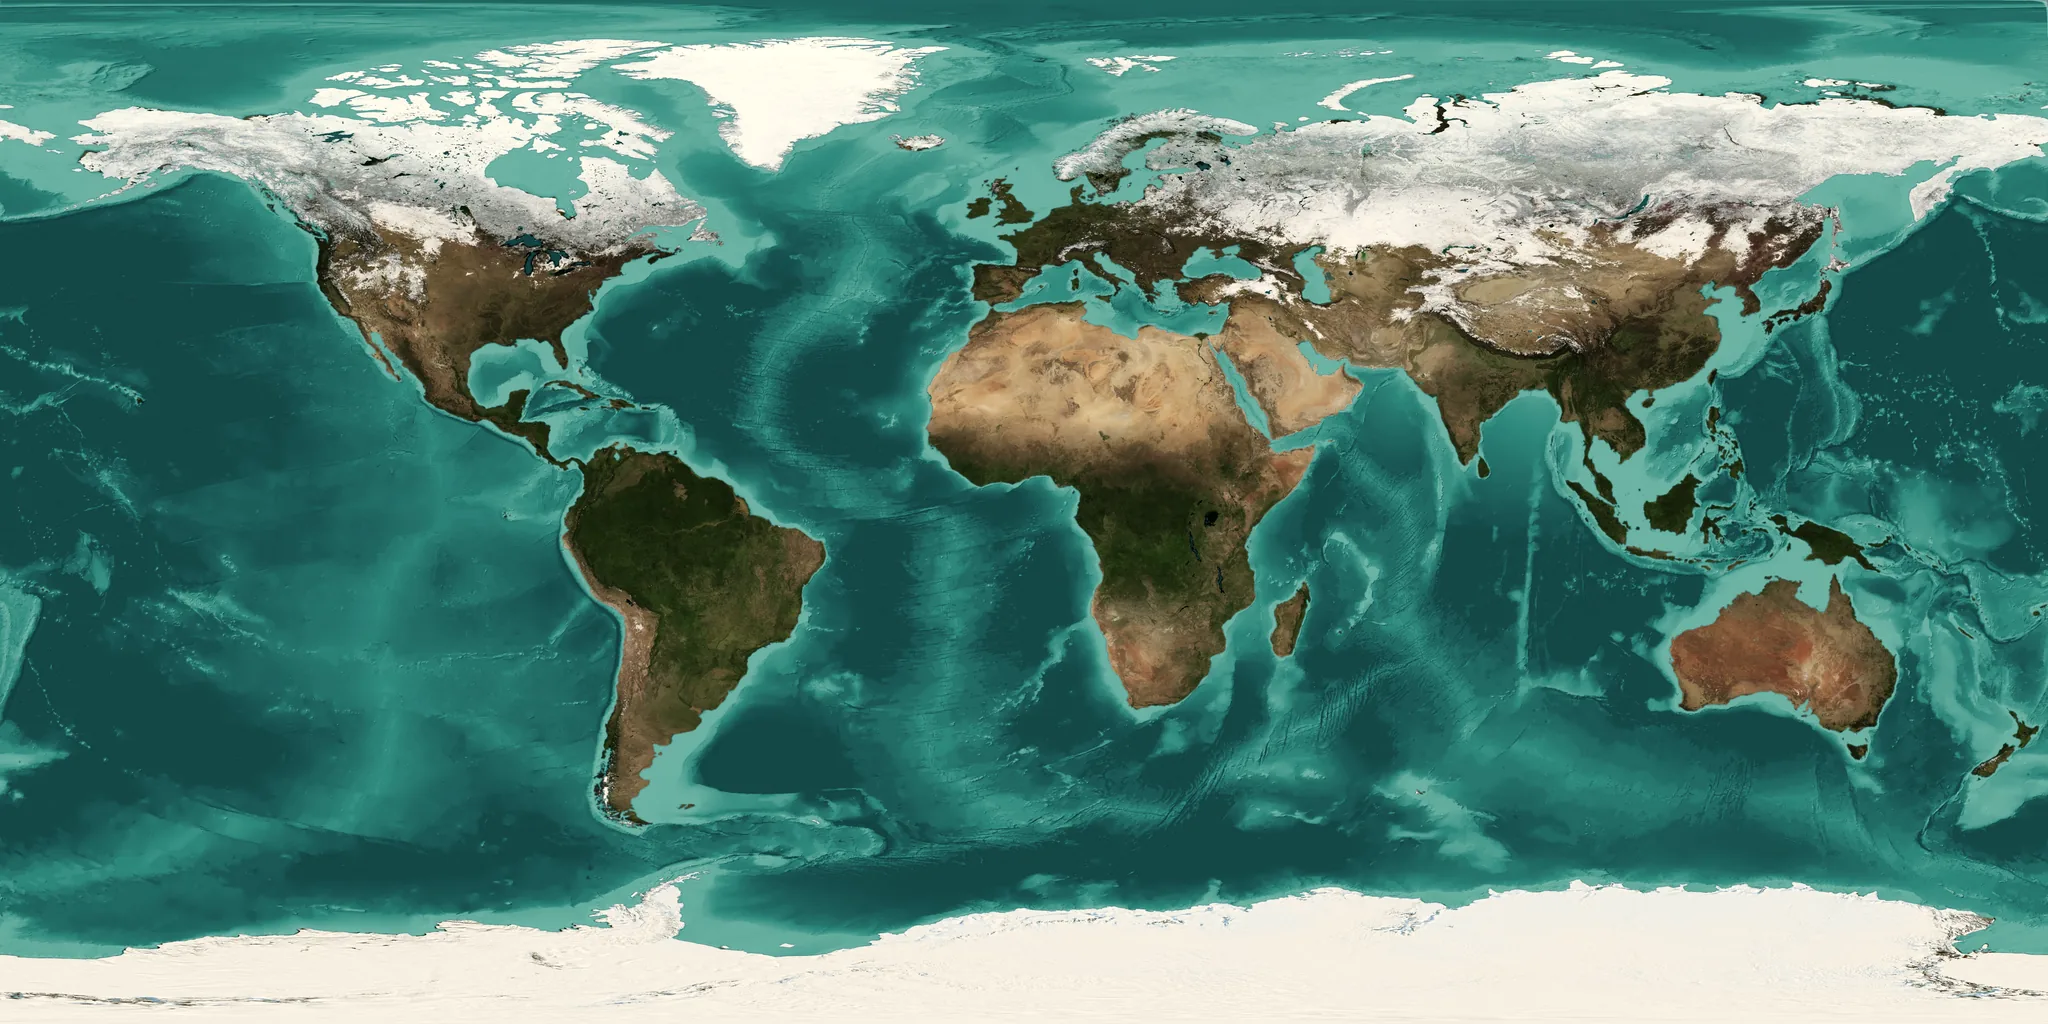
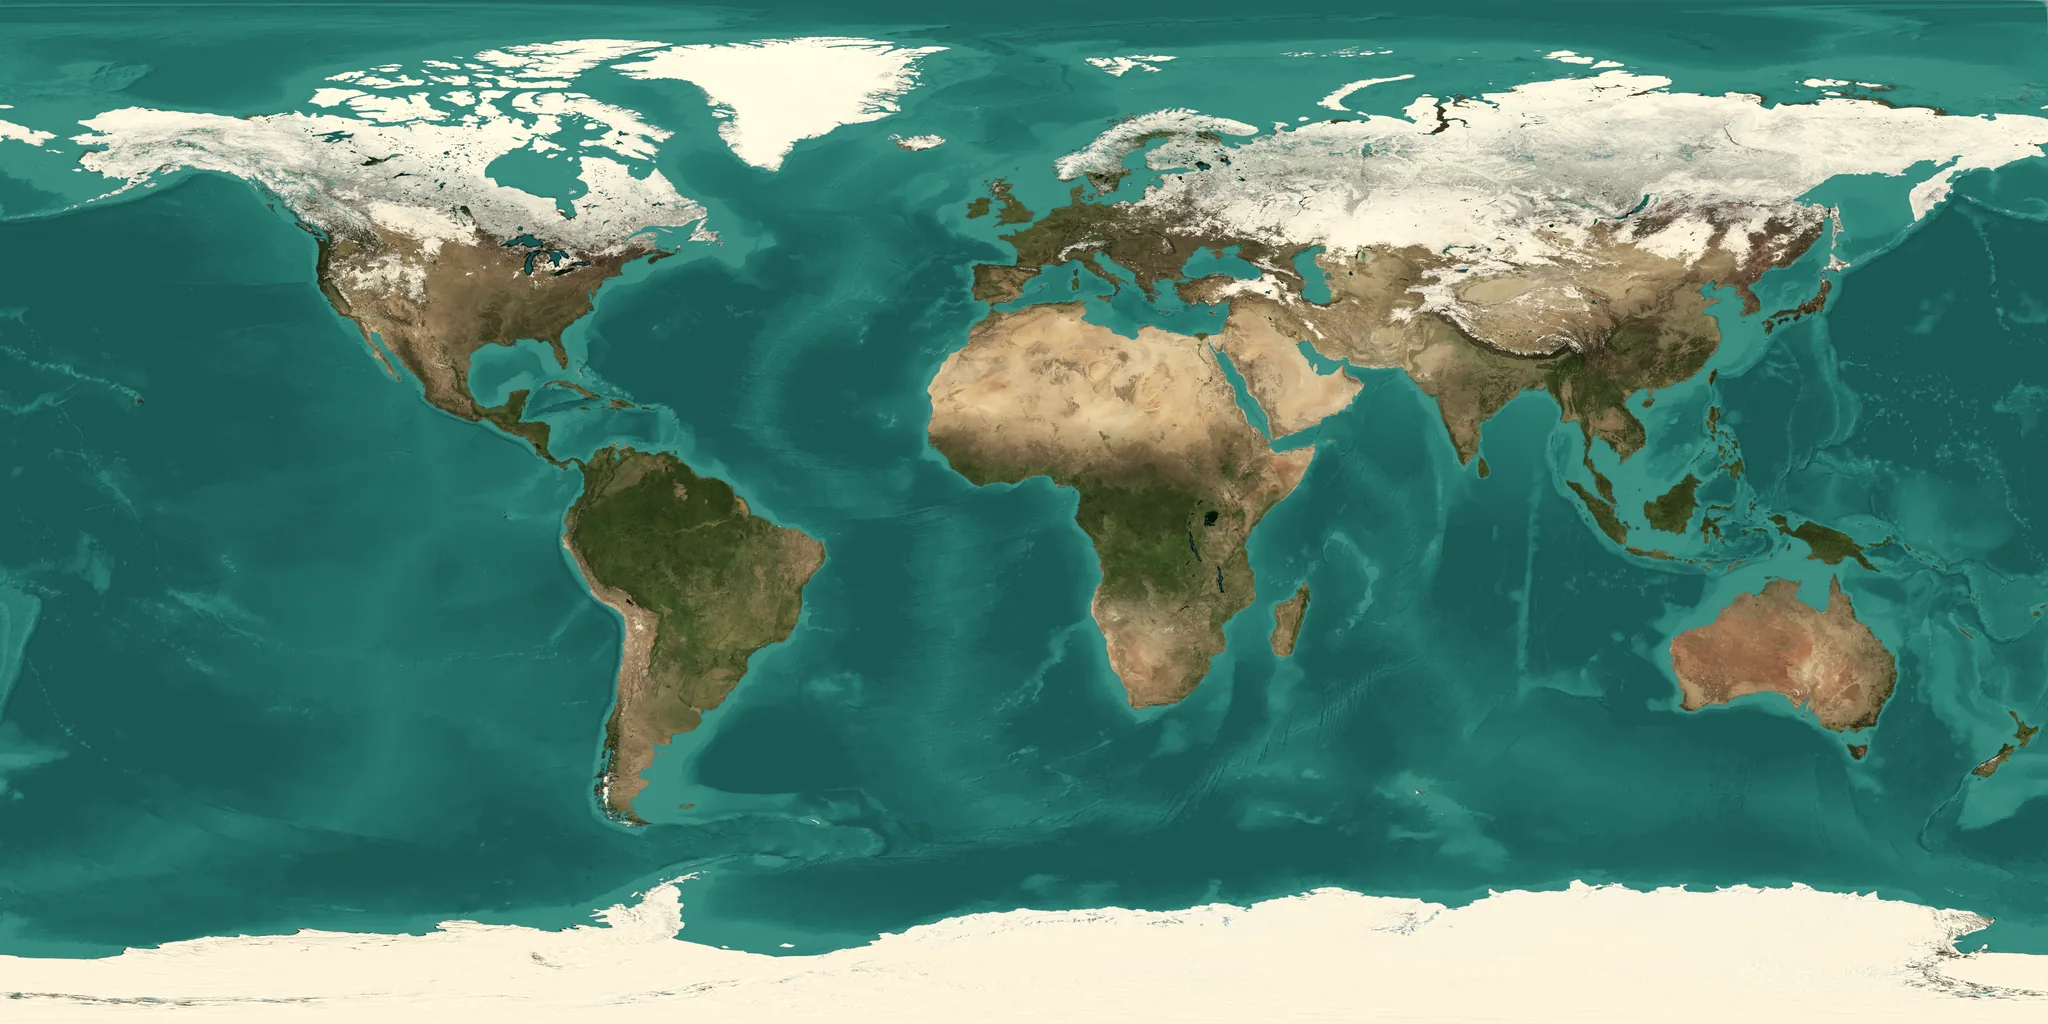
style: textura do globo com mar mais suave e florestas menos escuras

diff --git a/scripts/preparar-globo.py b/scripts/preparar-globo.py
@@ -13,8 +13,8 @@ ORIGEM = RAIZ / "media-src" / "globo" / "blue-marble-5400.jpg"
 DESTINO = RAIZ / "public" / "globo"
 
 # mar: do fundo para o raso, dentro da paleta do tema 3
-MAR_POS = np.array([0.0, 0.18, 0.4, 1.0])
-MAR_COR = np.array([[0x0F, 0x3A, 0x3B], [0x1D, 0x60, 0x5C], [0x2E, 0x8A, 0x7E], [0x8C, 0xC8, 0xB6]]) / 255
+MAR_POS = np.array([0.0, 0.3, 0.6, 1.0])
+MAR_COR = np.array([[0x18, 0x4E, 0x4B], [0x22, 0x6A, 0x63], [0x2E, 0x84, 0x78], [0x5F, 0xA5, 0x96]]) / 255
 
 
 def preparar():
@@ -25,11 +25,12 @@ def preparar():
     # o mar da Blue Marble é azul e escuro; a máscara é suavizada para a costa não serrilhar
     mar = ((b > r * 1.12) & (b > g * 0.98) & (lum < 0.5)).astype(np.float32)
     mar = np.asarray(Image.fromarray((mar * 255).astype(np.uint8)).filter(ImageFilter.GaussianBlur(1.2)), dtype=np.float32)[..., None] / 255
-    profundo = np.clip(lum / 0.32, 0, 1)
+    # batimetria mais suave: comprime o relevo do fundo do mar (a plataforma continental não vira contorno brilhante)
+    profundo = np.clip(lum / 0.32, 0, 1) ** 0.75 * 0.85
     agua = np.stack([np.interp(profundo, MAR_POS, MAR_COR[:, c]) for c in range(3)], -1)
     # terra: um pouco menos saturada e mais quente, para combinar com o verde-água
     cinza = lum[..., None]
-    terra = np.clip(cinza + 0.82 * (a - cinza), 0, 1) * np.array([1.03, 1.0, 0.94])
+    terra = np.clip(cinza + 0.78 * (a - cinza), 0, 1) ** 0.72 * np.array([1.04, 1.0, 0.9])  # florestas menos pretas, tom cáqui
     saida = terra * (1 - mar) + agua * mar
     img = Image.fromarray((np.clip(saida, 0, 1) * 255).astype(np.uint8))
     DESTINO.mkdir(parents=True, exist_ok=True)
